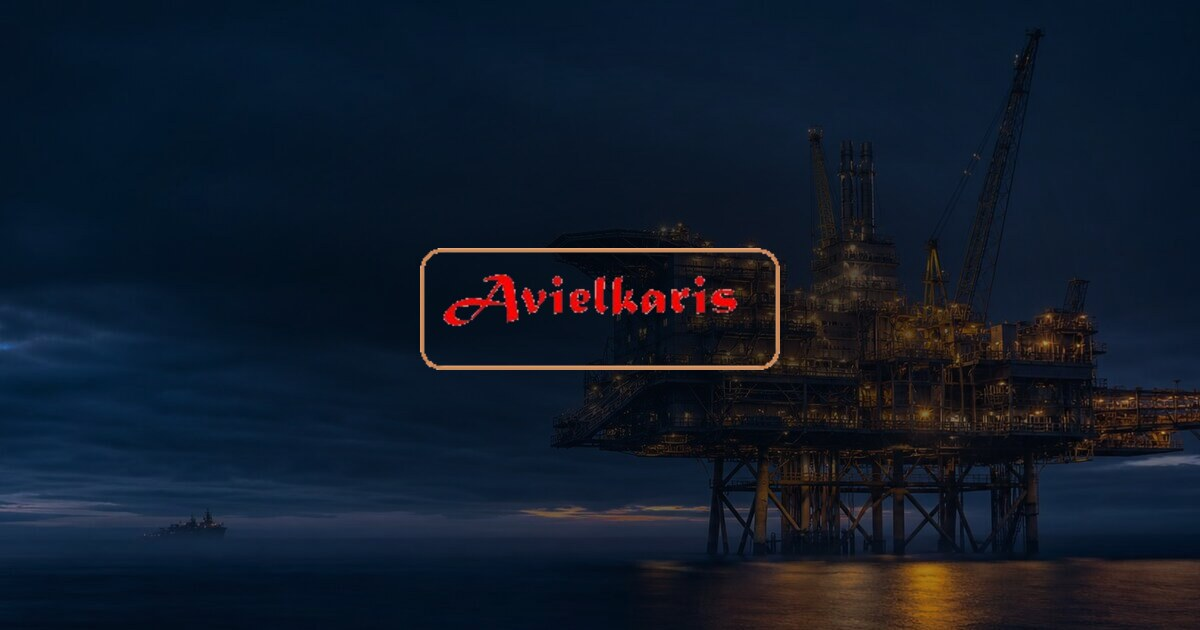
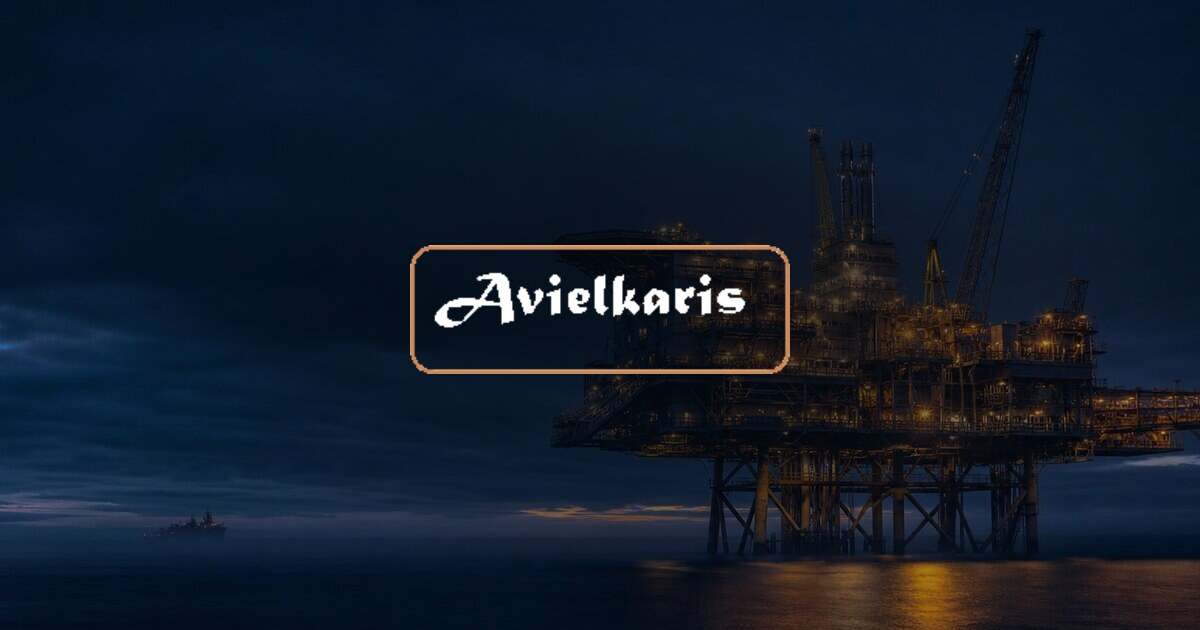
Switch the wordmark to white on dark surfaces and enlarge it
- Add a white-lettering variant of the official logo (copper keyline
  unchanged) for ink surfaces: header over the hero, mobile drawer,
  footer and the OG card
- Keep the supplied red lettering wherever the logo sits on ivory
- Logo component now takes theme="dark" | "light" and cross-fades
  between both variants so the header swap has no network flash
- Enlarge the mark: header 40 -> 48px (36 -> 40px scrolled), drawer
  40 -> 48px, footer 44 -> 56px

Changed region(s): [[0.3392, 0.3619, 0.6783, 0.6032]]

diff --git a/src/components/ui.tsx b/src/components/ui.tsx
@@ -241,25 +241,50 @@ export function WhatsAppIcon({ className = "h-5 w-5" }: { className?: string }) 
 }
 
 /* ── Brand mark ─────────────────────────────────────────────────── */
+/**
+ * The official Aviel Karis wordmark.
+ *
+ * `theme` describes the surface the logo sits on: on dark surfaces the
+ * lettering switches to white for contrast, while the copper keyline and
+ * the red-on-light treatment stay exactly as supplied. Both variants are
+ * mounted so the header can swap them without a network flash.
+ */
 export function Logo({
+  theme = "dark",
   className = "",
   alt = "Aviel Karis Services Ltd",
   priority = false,
 }: {
+  theme?: "dark" | "light";
   className?: string;
   alt?: string;
   priority?: boolean;
 }) {
+  const onDark = theme === "dark";
   return (
-    <span className={`inline-flex shrink-0 items-center ${className}`}>
+    <span className={`relative inline-flex shrink-0 items-center ${className}`}>
       <Image
         src="/brand/aviel-karis-logo.png"
-        alt={alt}
+        alt={onDark ? "" : alt}
+        aria-hidden={onDark || undefined}
+        width={245}
+        height={83}
+        sizes="(max-width: 640px) 160px, 190px"
+        className={`h-full w-auto object-contain transition-opacity duration-500 ${
+          onDark ? "opacity-0" : "opacity-100"
+        }`}
+      />
+      <Image
+        src="/brand/aviel-karis-logo-white.png"
+        alt={onDark ? alt : ""}
+        aria-hidden={!onDark || undefined}
         width={245}
         height={83}
         priority={priority}
-        sizes="(max-width: 640px) 118px, 148px"
-        className="h-full w-auto object-contain"
+        sizes="(max-width: 640px) 160px, 190px"
+        className={`absolute left-0 top-0 h-full w-auto object-contain transition-opacity duration-500 ${
+          onDark ? "opacity-100" : "opacity-0"
+        }`}
       />
     </span>
   );

diff --git a/src/components/Header.tsx b/src/components/Header.tsx
@@ -115,7 +115,8 @@ export default function Header() {
           >
             <a href="#home" aria-label="Aviel Karis Services Ltd — home" className="shrink-0">
               <Logo
-                className={scrolled ? "h-9" : "h-10"}
+                theme={scrolled ? "light" : "dark"}
+                className={scrolled ? "h-10" : "h-12"}
                 alt=""
                 priority
               />
@@ -205,7 +206,7 @@ export default function Header() {
           >
             <div className="relative z-10 shell flex min-h-full flex-col py-6">
               <div className="flex items-center justify-between">
-                <Logo className="h-10" />
+                <Logo theme="dark" className="h-12" />
                 <button
                   onClick={() => setOpen(false)}
                   aria-label="Close menu"

diff --git a/src/components/Footer.tsx b/src/components/Footer.tsx
@@ -50,7 +50,7 @@ export default function Footer() {
 
       <div className="shell grid gap-12 py-16 md:grid-cols-2 lg:grid-cols-12">
         <div className="lg:col-span-4">
-          <Logo className="h-11" />
+          <Logo theme="dark" className="h-14" />
           <p className="mt-6 max-w-xs text-[0.8125rem] leading-relaxed">
             Upstream and midstream oil &amp; gas services, marine and industrial
             engineering contractor. Incorporated in Nigeria, 2015.

diff --git a/README.md b/README.md
@@ -80,11 +80,14 @@ labels for technical precision.
   accordion and honouring of `prefers-reduced-motion` via `MotionProvider`.
 - **Imagery** — cinematic photography in `public/images`, rendered through
   `next/image` (AVIF/WebP).
-- **Brand** — the official Aviel Karis wordmark lives in `public/brand` with the
-  white background removed so it sits on both ink and ivory surfaces. It is the
-  only logo asset: header, mobile drawer and footer all render it through the
-  `Logo` component in `src/components/ui.tsx`. The favicon and Apple touch icon
-  are crops of the same artwork. Do not redraw or re-letter the mark.
+- **Brand** — the official Aviel Karis wordmark lives in `public/brand`, with the
+  white background removed and two colourways: the supplied red lettering on
+  light surfaces (`aviel-karis-logo.png`) and white lettering on ink surfaces
+  (`aviel-karis-logo-white.png`), while the copper keyline stays copper in both.
+  Header, mobile drawer and footer render it through the `Logo` component in
+  `src/components/ui.tsx`, which takes `theme="dark" | "light"` for the surface
+  it sits on. The favicon and Apple touch icon are crops of the same artwork. Do
+  not redraw or re-letter the mark.
 
 ## Project structure
 
